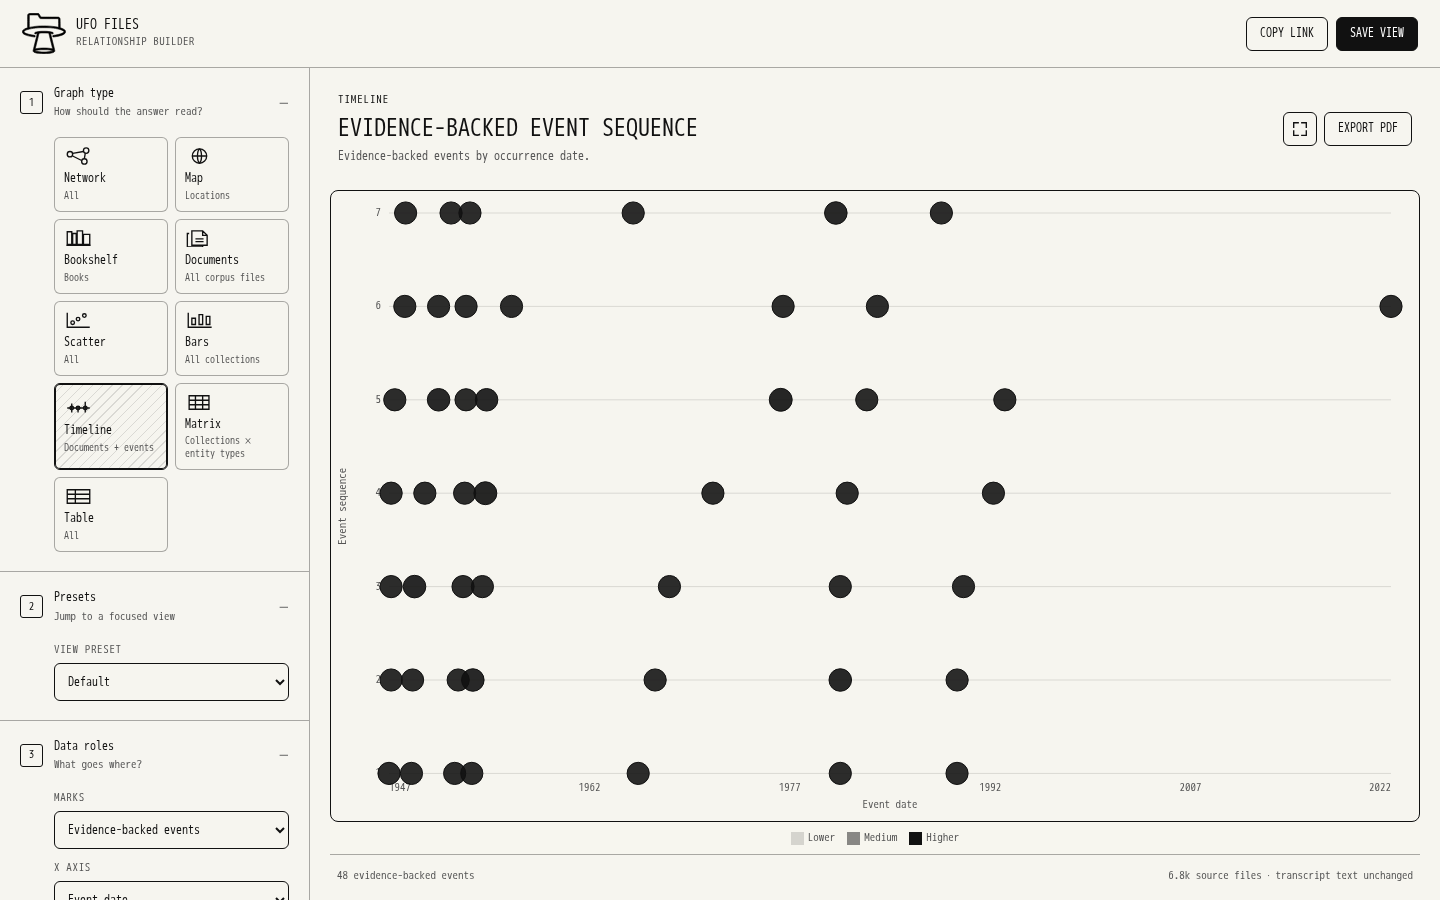
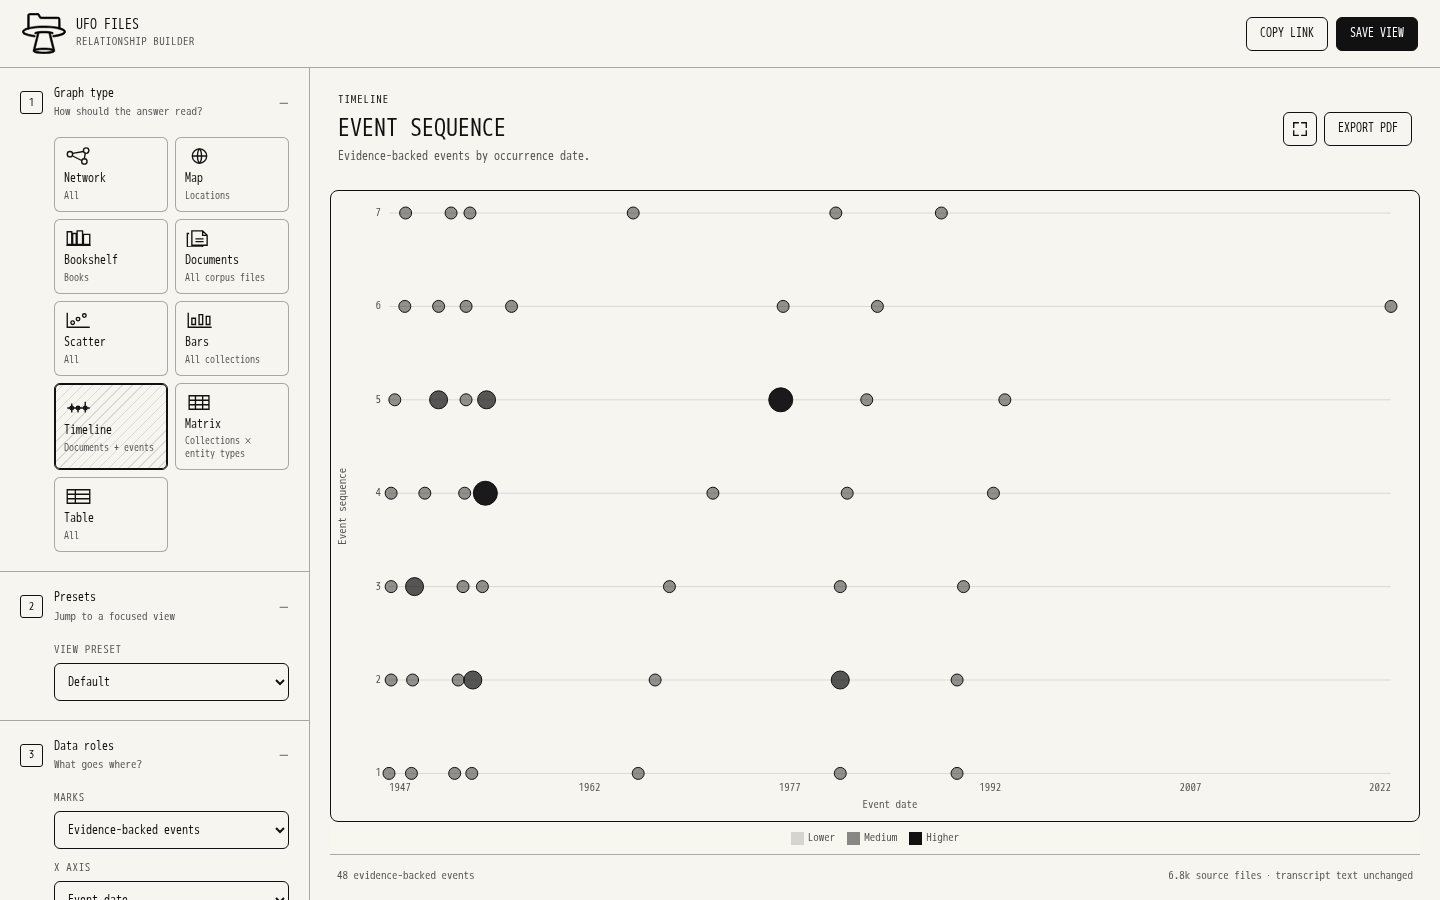
Size events by supporting documents

diff --git a/app.js b/app.js
@@ -96,7 +96,7 @@ const VIEW_DEFAULTS = {
   book: { size: "contextAdjustedMentions", color: "intensity", labels: "all", limit: 20 },
   document: { size: "words", color: "source", labels: "top", documentSearch: "" },
   bars: { aggregation: "source", y: "words", color: "intensity" },
-  timeline: { timelineRole: "event", x: "startDate", y: "timelineLane", size: "confidence", color: "eventType", categories: ["date"], labels: "off", limit: 500, relationshipLayer: "off" },
+  timeline: { timelineRole: "event", x: "startDate", y: "timelineLane", size: "documentCount", color: "eventType", categories: ["date"], labels: "off", limit: 500, relationshipLayer: "off" },
   matrix: { matrixColumns: "category", color: "intensity" },
   table: { tableRole: "entity", tableColumns: ["name", "category", "mentions", "documentCount", "sourceCount"], tableSort: "mentions", tableDirection: "desc", tableSearch: "", limit: 60 }
 };
@@ -267,7 +267,7 @@ function dataAwareTitle(config) {
   } else if (config.type === "bars") {
     title = config.aggregation === "entity" ? `${label(config.y)} by ${entities}` : `${label(config.y)} by ${label(config.aggregation)}`;
   } else if (config.type === "timeline") {
-    title = config.timelineRole === "event" ? "Evidence-backed Event Sequence" : config.timelineRole === "entity" ? `${entities} Over Time` : "Dated Source Documents";
+    title = config.timelineRole === "event" ? "Event Sequence" : config.timelineRole === "entity" ? `${entities} Over Time` : "Dated Source Documents";
   } else if (config.type === "matrix") {
     title = `Collections × ${config.matrixColumns === "entity" ? "Entities" : "Entity Types"}`;
   } else {
@@ -469,9 +469,11 @@ function renderControls() {
   }
   $("#roleControls").innerHTML = roles;
 
-  const sizeOptions = state.config.type === "network" && state.config.nodeRole === "collection"
-    ? ["documents", "words"]
-    : state.config.type === "document" || state.config.type === "timeline" && state.config.timelineRole !== "entity" ? numericDoc : numericEntity;
+  const sizeOptions = state.config.type === "timeline" && state.config.timelineRole === "event"
+    ? ["documentCount", "confidence"]
+    : state.config.type === "network" && state.config.nodeRole === "collection"
+      ? ["documents", "words"]
+      : state.config.type === "document" || state.config.type === "timeline" && state.config.timelineRole !== "entity" ? numericDoc : numericEntity;
   const labelSizeControl = `<div class="control"><label>Label size <span>${state.config.labelSize}px</span></label><input type="range" min="11" max="18" step="1" value="${state.config.labelSize}" data-range="labelSize"></div>`;
   const zoomControl = state.config.type === "network" ? `<div class="control"><label>Zoom <span>${state.config.zoom.toFixed(1)}×</span></label><input type="range" min="0.5" max="2.5" step="0.1" value="${state.config.zoom}" data-range="zoom"></div>` : "";
   const moonTransitControl = state.config.type === "map" ? `<div class="control"><label for="moonTransitSeconds">On-screen Moon transit <span>${state.config.moonTransitSeconds}s</span></label><input id="moonTransitSeconds" type="range" min="2" max="10" step="1" value="${state.config.moonTransitSeconds}" data-range="moonTransitSeconds"></div>` : "";
@@ -588,7 +590,7 @@ function updateConfig(key, value, rerenderControls = false) {
   if (key === "timelineRole") {
     state.config.x = value === "event" ? "startDate" : "documentDate";
     state.config.y = value === "event" ? "timelineLane" : value === "entity" ? "contextAdjustedMentions" : "words";
-    state.config.size = value === "event" ? "confidence" : value === "entity" ? "independentDocumentCount" : "words";
+    state.config.size = value === "event" ? "documentCount" : value === "entity" ? "independentDocumentCount" : "words";
     state.config.color = value === "event" ? "eventType" : value === "entity" ? "category" : "source";
     if (value === "event") state.config.relationshipLayer = "off";
   }

diff --git a/tests/test_app.js b/tests/test_app.js
@@ -607,7 +607,8 @@ test("map and timeline expose relationship controls", () => {
 
 test("timeline defaults to evidence-backed event dates instead of cataloging time", () => {
   const source = fs.readFileSync("app.js", "utf8");
-  assert.match(source, /timeline: \{ timelineRole: "event", x: "startDate"/);
+  assert.match(source, /timeline: \{ timelineRole: "event", x: "startDate", y: "timelineLane", size: "documentCount"/);
+  assert.match(source, /title = config\.timelineRole === "event" \? "Event Sequence"/);
   assert.match(source, /state\.catalog\.events \|\| \[\]/);
   assert.match(source, /item\.confidence >= \.9/);
   assert.match(source, /item\.startDate \|\| item\.documentDate/);
